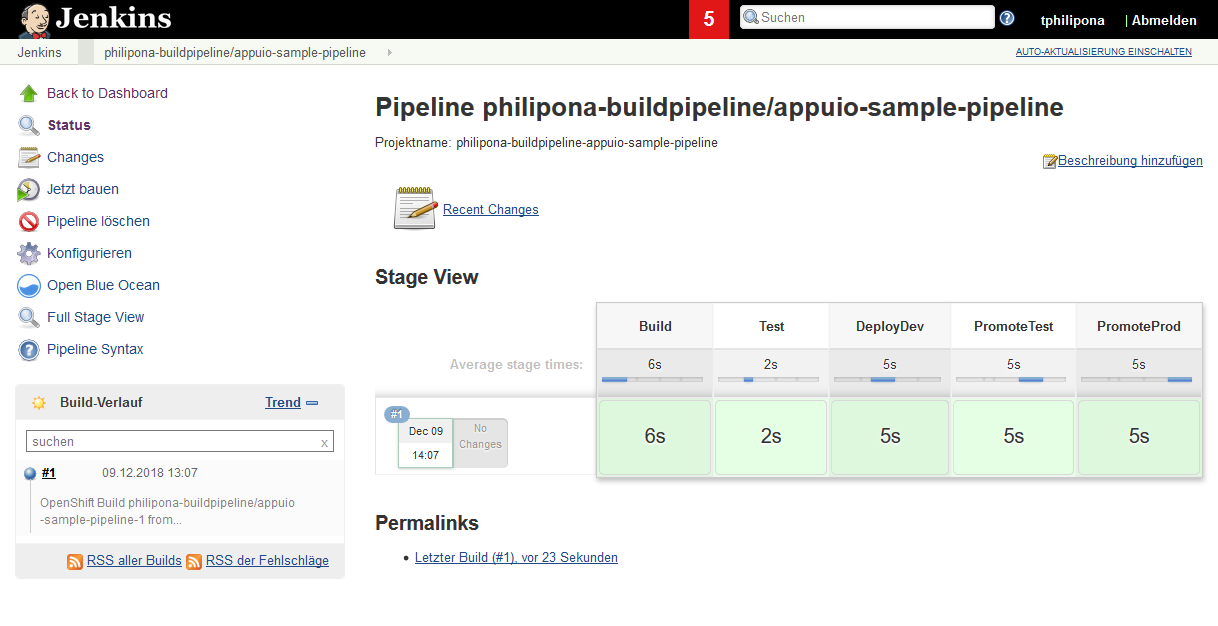
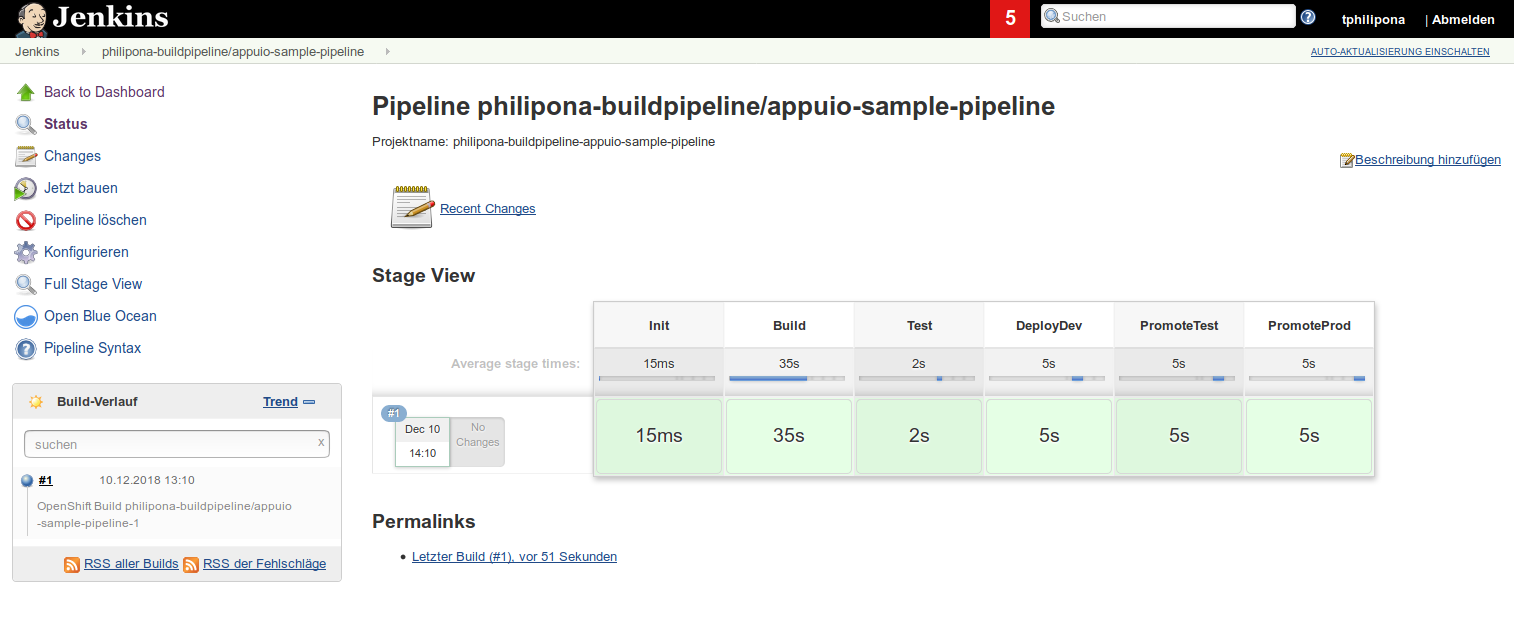
Add deployment stages to the pipeline and updates process to use inline Jenkinsfile

diff --git a/additional-labs/pipelines.md b/additional-labs/pipelines.md
@@ -15,7 +15,7 @@ Um zu verstehen wie OpenShift Pipelines funktionieren wollen wir als ersten Schr
 
 Erstellen wir dafür ein neues Projekt `oc new-project [USER]-buildpipeline`
 
-Wir legen mit folgendem Befehl die entsprechende BuildConfig an, welche als Input auf das JenkinsFile in einem Gitrepository https://github.com/appuio/simple-openshift-pipeline-example.git verweist.
+Wir legen mit folgendem Befehl die entsprechende BuildConfig an, welche das JenkinsFile also die Pipeline direkt beinhaltet. Ebenso wird ein zweite BuildConfig angestosse, diese enthält die Docker BuildConfig für die eigentliche Applikation die wir im Rahmen dieser Pipeline deployen wollen, im vorliegenden Beispiel eine simple PHP Applikation
 
 ```bash
 $ oc create -f ./additional-labs/resources/simple-openshift-pipeline.yaml
@@ -39,40 +39,56 @@ Dabei wird von OpenShift der Jenkins Job gestartet und entsprechend in die Pipel
 
 Unser Beispiel hier enthält Testpipeline, die das generelle Prinzip veranschaulicht, jedoch bieten Jenkins Pipelines volle Flexiblität um komplexe CI/CD Pipelines abzubilden.
 
-```
+```groovy
+def project=""
 node {
+    stage('Init') {
+        project = env.PROJECT_NAME
+    }
     stage('Build') {
         echo "Build"
-	sleep 5
+        openshift.withCluster() {
+            openshift.withProject() {
+                def builds = openshift.startBuild("application"); 
+                builds.logs('-f')
+                timeout(5) {
+                    builds.untilEach(1) {
+                    return (it.object().status.phase == "Complete")
+                    }
+                }
+            }
+        }
     }
     stage('Test') {
         echo "Test"
-	sleep 2
+        sleep 2
     }
 }
 node ('maven') {    
     stage('DeployDev') {
         echo "Deploy to Dev"
-	sleep 5
+        sleep 5
     }
     stage('PromoteTest') {
         echo "Deploy to Test"
-	sleep 5
+        sleep 5
     }
     stage('PromoteProd') {
         echo "Deploy to Prod"
-	sleep 5
+        sleep 5
     }
 }
 ```
 
-Die Testpipeline besteht aus fünf Steps, welche auf zwei Jenkins Slaves ausgeführt werden. Die letzten drei Steps werden bedingt durch den node selector `node ('maven') { ... }` auf einem Jenkins Slave mit dem Namen `maven` ausgeführt. Dabei startet OpenShift mittels Kubernetes Plugin dynamisch einen Jenkins Slave Pod und führt entsprechend diese Stages auf diesem Slave aus. 
+Die Testpipeline besteht aus sechs Pipeline-Stages, welche auf zwei Jenkins Slaves ausgeführt werden. Die `Build` Pipeline-Stage, ist aktuell die einzig ausprogrammierte Stage. Sie startet nähmlich im Projekt den Docker Build für unsere Applikation und wartet entsprechend bis dies erfolgreich abgeschlososen ist.
 
-Der `maven` Slave ist im Kubernetes Plugin vorkonfiguriert und die Stages auf dem Slave `registry.access.redhat.com/openshift3/jenkins-slave-maven-rhel7:v3.7` ausgeführt. Weiter unten im Kapitel zu Custom Slaves werden Sie lernen, wie man individuelle Slaves dazu verwendet um Pipelines darauf auszuführen.
+Die letzten drei Steps werden bedingt durch den node selector `node ('maven') { ... }` auf einem Jenkins Slave mit dem Namen `maven` ausgeführt. Dabei startet OpenShift mittels Kubernetes Plugin dynamisch einen Jenkins Slave Pod und führt entsprechend diese Stages auf diesem Slave aus. 
+
+Der `maven` Slave ist im Kubernetes Plugin vorkonfiguriert und die Pipeline-Stages auf dem Slave `registry.access.redhat.com/openshift3/jenkins-slave-maven-rhel7:v3.7` ausgeführt. Weiter unten im Kapitel zu Custom Slaves werden Sie lernen, wie man individuelle Slaves dazu verwendet um Pipelines darauf auszuführen.
 
 ## BuildConfig Optionen
 
-Im vorherigen Lab haben wir der BuildConfig vom Typ `jenkinsPipelineStrategy` ein Git Repository als Source für das JenkinsFile angegeben. Als Alternative dazu kann das Jenkins Pipeline File auch direkt in der BuildConfig hinterlegt werden.
+Im vorherigen Lab haben wir der BuildConfig vom Typ `jenkinsPipelineStrategy` das JenkinsFile direkt angegeben. Als Alternative dazu kann das Jenkins Pipeline File auch via GitRepository in der BuildConfig hinterlegt werden.
 
 ```yaml
 kind: "BuildConfig"
@@ -80,33 +96,12 @@ apiVersion: "v1"
 metadata:
   name: "appuio-sample-pipeline"
 spec:
+  source:
+    git:
+      uri: "https://github.com/appuio/simple-openshift-pipeline-example.git"
   strategy:
     jenkinsPipelineStrategy:
-      jenkinsfile: |-
-        node {
-            stage('Build') {
-                echo "Build"
-            sleep 5
-            }
-            stage('Test') {
-                echo "Test"
-            sleep 2
-            }
-        }
-        node ('maven') {    
-            stage('DeployDev') {
-                echo "Deploy to Dev"
-            sleep 5
-            }
-            stage('PromoteTest') {
-                echo "Deploy to Test"
-            sleep 5
-            }
-            stage('PromoteProd') {
-                echo "Deploy to Prod"
-            sleep 5
-            }
-        }
+      jenkinsfilePath: Jenkinsfile
 
 ```
 
@@ -147,7 +142,9 @@ Custom Jenkins Slaves können einfach in den Build integriert werden, dafür mü
 
 TODO
 
-## Best Practice Multi Stage Deployment
+## LAB: Multi Stage Deployment
+
+Als nächstes wollen wir nun unsere Pipeline weiter ausbauen und das Deployment der Applikation auf den unterschiedlichen Stages (dev, test, prod) angehen
 
 Für ein Multi Stage Deployment auf OpenShift hat sich das folgende Setup als Bestpractice erwiesen.
 
@@ -162,11 +159,13 @@ Das Build Projekt haben wir oben bereits eingerichtet `[USER]-buildpipeline` als
 
 Nun müssen wir den `puller` Service Accounts aus den entsprechenden Projekten für die Stage die nötigen Rechte geben, damit die gebuildeten Images gepullt werden können.
 
-```
+```bash
 oc policy add-role-to-group system:image-puller system:serviceaccounts:[USER]-pipeline-dev -n [USER]-buildpipeline
 oc policy add-role-to-group system:image-puller system:serviceaccounts:[USER]-pipeline-test -n [USER]-buildpipeline
 oc policy add-role-to-group system:image-puller system:serviceaccounts:[USER]-pipeline-prod -n [USER]-buildpipeline
 ```
+
+TODO: Berechtigungen um aus dem Builder Projekt deployments zu triggern.
 
 Als nächstes erstellen wir in den entsprechenden Stage Projekten die Applikationen, dafür definieren wir einen Tag im Imagestream, welcher deployt werden soll.
 
@@ -174,44 +173,86 @@ Als nächstes erstellen wir in den entsprechenden Stage Projekten die Applikatio
 * test `oc new-app [USER]-buildpipeline/application:test -n [USER]-pipeline-test` 
 * prod `oc new-app [USER]-buildpipeline/application:prod -n [USER]-pipeline-prod` 
 
-In der Pipeline können wir nun mittels setzen des entsprechenden Tags bspw. `application:dev` das entsprechende Image in die passende Stage promoten.
+In der Pipeline können wir nun mittels setzen des entsprechenden Tags auf dem Imagestream der gebuildeten Applikatoin bspw. `application:dev` das entsprechende Image in die passende Stage promoten und mittels Deployment die entsprechende Version deployen.
 
-TODO: entsprechende Pipeline implementieren.
-```
-...
-node ('maven') {    
-    stage('DeployDev') {
-        script {
-            openshift.withCluster() {
-                openshift.withProject() {
-                    # Tag the latest image to be used in dev stage
-                    openshift.tag("[USER]-buildpipeline/application:latest", "[USER]-buildpipeline/application:dev")
-                    # trigger deployment
-                    def rm = openshift.selector("dc", "application").rollout()
-                    openshift.selector("dc", "application").related('pods').untilEach(1) {
-                        return (it.object().status.phase == "Running")
+Passen sie ihre Pipeline entweder in der Web Console oder in der BuildConfig wie folgt an (die Werte für die Variablen `dev_project`, `test_project`, `prod_project` entsprechend setzen):
+
+```groovy
+def project=""
+def dev_project="[USER]-pipeline-dev"
+def test_project="[USER]-pipeline-test"
+def prod_project="[USER]-pipeline-prod"
+node {
+    stage('Init') {
+        project = env.PROJECT_NAME
+    }
+    stage('Build') {
+        echo "Build"
+        openshift.withCluster() {
+            openshift.withProject() {
+                def builds = openshift.startBuild("application")
+                builds.logs('-f')
+                timeout(5) {
+                    builds.untilEach(1) {
+                    return (it.object().status.phase == "Complete")
                     }
                 }
             }
         }
-	sleep 5
+    }
+    stage('Test') {
+        echo "Test"
+        sleep 2
+    }
+}
+node ('maven') {
+    stage('DeployDev') {
+        echo "Deploy to Dev"
+        openshift.withCluster() {
+            openshift.withProject() {
+                # Tag the latest image to be used in dev stage
+                openshift.tag("$project/application:latest", "$project/application:dev")
+            }
+            openshift.withProject($dev_project) {
+                # trigger Deployment in dev project
+                def dc = openshift.selector('dc', "application")
+                dc.rollout().status()
+            }
+        }
     }
     stage('PromoteTest') {
-        script {
-            openshift.withCluster() {
-                openshift.withProject() {
-                    # Tag the latest image to be used in dev stage
-                    openshift.tag("[USER]-buildpipeline/application:dev", "[USER]-buildpipeline/application:test")
-                    # trigger deployment
-                    def rm = openshift.selector("dc", "application").rollout()
-                    openshift.selector("dc", "application").related('pods').untilEach(1) {
-                        return (it.object().status.phase == "Running")
-                    }
-                }
+        echo "Deploy to Test"
+        openshift.withCluster() {
+            openshift.withProject() {
+                # Tag the dev image to be used in test stage
+                openshift.tag("$project/application:dev", "$project/application:test")
+            }
+            openshift.withProject($test_project) {
+                # trigger Deployment in test project
+                def dc = openshift.selector('dc', "application")
+                dc.rollout().status()
             }
         }
-	sleep 5
     }
-    ...
+    stage('PromoteProd') {
+        echo "Deploy to Prod"
+        openshift.withCluster() {
+            openshift.withProject() {
+                # Tag the test image to be used in prod stage
+                openshift.tag("$project/application:test", "$project/application:prod")
+            }
+            openshift.withProject($prod_project) {
+                # trigger Deployment in prod project
+                def dc = openshift.selector('dc', "application")
+                dc.rollout().status()
+            }
+        }
+    }
 }
 ```
+
+Führen Sie die Pipeline erneut aus und schauen Sie sich an, wie nun die gebuildete Applikation von Stage zu Stage deployt wird.
+
+## Jenkins Pipeline Sprache
+
+Unter https://github.com/puzzle/jenkins-techlab finden Sie ein entsprechendes Hands-on Lab zur Jenkins Pipeline Sprache. Die Syntax ist [hier](https://jenkins.io/doc/book/pipeline/syntax/) beschrieben
